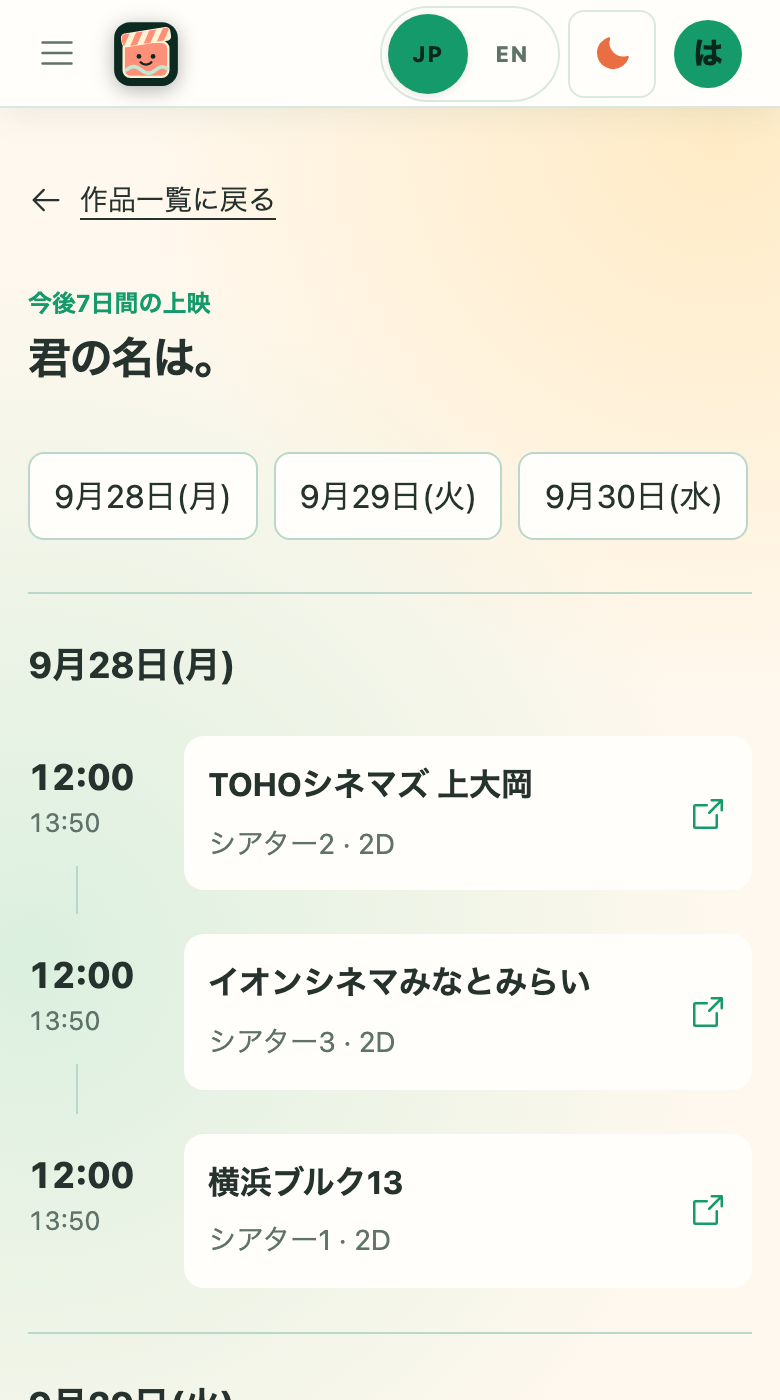
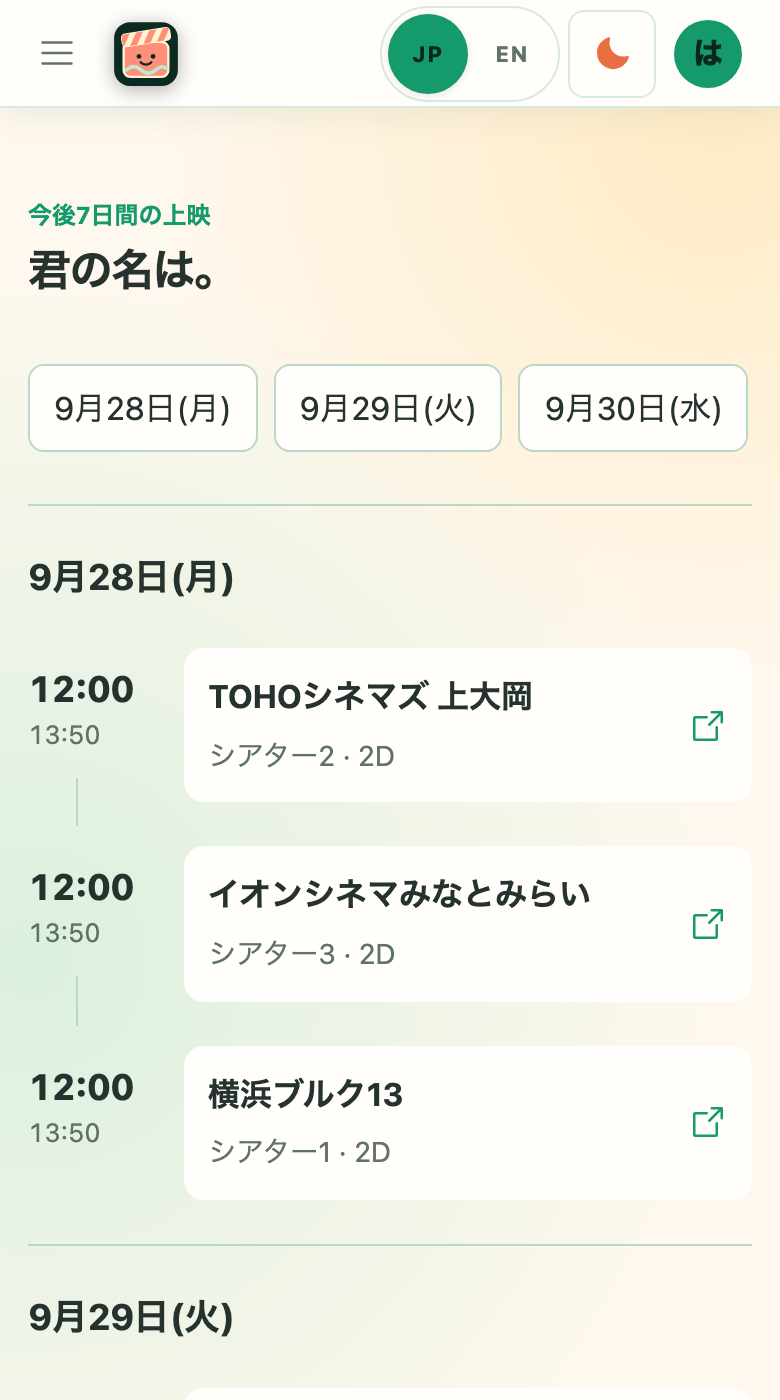
fix: remove redundant page back links (3/3)

diff --git a/src/styles.css b/src/styles.css
@@ -3740,19 +3740,6 @@ html[lang="en"] .brand-wordmark {
   color: var(--muted);
   font-size: 11px;
 }
-.admin-users-page .page-back-link {
-  display: inline-flex;
-  align-items: center;
-  gap: 6px;
-  min-height: 44px;
-  margin-bottom: 16px;
-  color: var(--muted);
-  font-size: 12px;
-  text-decoration: none;
-}
-.admin-users-page .page-back-link:hover {
-  color: var(--text);
-}
 .admin-tabs {
   display: flex;
   gap: 20px;
@@ -3903,7 +3890,6 @@ html[lang="en"] .brand-wordmark {
 .shared-movies img { width: 72px; height: 100px; object-fit: contain; flex: 0 0 auto; border-radius: 6px; }
 .shared-empty { padding-block: 30px; color: var(--muted); line-height: 1.7; }
 .shared-empty a { display: inline-flex; align-items: center; min-height: 44px; }
-.movie-back { display: inline-flex; align-items: center; gap: 8px; min-height: 44px; font-size: 0.875rem; }
 .movie-overview { display: grid; grid-template-columns: minmax(0, 1fr) auto; align-items: start; gap: 16px; padding-block: 20px 28px; }
 .movie-overview-copy { min-width: 0; }
 .movie-overview .page-header { margin: 0; }
@@ -4026,7 +4012,7 @@ html[lang="en"] .brand-wordmark {
 .sharing-view-heading label { display: grid; gap: 8px; }
 .sharing-view-heading select { min-width: 0; width: 100%; min-height: 44px; padding: 10px 12px; background: var(--surface-raised); color: var(--text); border: 1px solid var(--line); border-radius: 10px; font: inherit; }
 .sharing-view-heading h2 { margin: 0; font-size: 1.15rem; overflow-wrap: anywhere; }
-.shared-back-link { display: inline-flex; align-items: center; min-height: 44px; color: var(--accent); margin-bottom: 12px; }
+.shared-manage-link { display: inline-flex; align-items: center; min-height: 44px; color: var(--accent); margin-bottom: 12px; }
 .group-member-list { border-top: 1px solid var(--line); padding-top: 20px; }
 .group-member-list h2 { font-size: 1rem; }
 .group-member-list ul { list-style: none; padding: 0; display: grid; gap: 16px; }
@@ -4156,7 +4142,7 @@ html[lang="en"] .brand-wordmark {
 .member-page-profile { display: flex; align-items: center; gap: 20px; margin-bottom: 28px; }
 .member-page-profile > div { min-width: 0; }
 .member-page-profile p { white-space: pre-wrap; overflow-wrap: anywhere; }
-.member-page-profile a, .member-back-link { display: inline-flex; align-items: center; min-height: 44px; color: var(--accent); }
+.member-page-profile a { display: inline-flex; align-items: center; min-height: 44px; color: var(--accent); }
 .member-activity { min-width: 0; margin-bottom: 28px; padding-bottom: 28px; border-bottom: 1px solid var(--line); }
 .member-activity h2 { font-size: 18px; margin: 0 0 16px; }
 .member-activity-tabs { display: flex; flex-wrap: wrap; gap: 6px; }

diff --git a/src/MoviePage.tsx b/src/MoviePage.tsx
@@ -1,10 +1,9 @@
 import { movieTitle, screeningInfo } from "./i18n";
 import { useEffect, useState } from "react";
 import { addDays, formatJstDate } from "../shared/date";
-import { ArrowLeftIcon, ArrowSquareOutIcon } from "@phosphor-icons/react";
+import { ArrowSquareOutIcon } from "@phosphor-icons/react";
 import { moviePreferenceKey, safeImageUrl } from "../shared/movie";
 import type { ScheduleResponse } from "../shared/types";
-import { hashForAppView } from "./lib";
 import {
   localize as t,
   localizedDate,
@@ -75,10 +74,6 @@ export function MoviePage({
   });
   return (
     <PageShell className="movie-page" busy={loading} labelledBy="movie-title">
-      <a className="movie-back" href={hashForAppView("movies")}>
-        <ArrowLeftIcon size={18} aria-hidden="true" />
-        {t("作品一覧に戻る")}
-      </a>
       <div className="movie-overview">
         <div className="movie-overview-copy">
           <PageHeader

diff --git a/src/SharedPage.tsx b/src/SharedPage.tsx
@@ -88,9 +88,6 @@ export function SharedPage({ manage = false }: { manage?: boolean }) {
           title={t("グループ管理")}
           titleId="groups-title"
         />
-        <a className="shared-back-link" href={hashForAppView("shared")}>
-          {t("共有に戻る")}
-        </a>
         {loading ? (
           <p role="status">{t("読み込み中…")}</p>
         ) : error ? (
@@ -163,7 +160,7 @@ export function SharedPage({ manage = false }: { manage?: boolean }) {
           ) : (
             <p>{t("まずは一緒に映画を楽しむ相手を招待してね！")}</p>
           )}
-          <a className="shared-back-link" href={hashForAppView("groups")}>
+          <a className="shared-manage-link" href={hashForAppView("groups")}>
             {t("グループ管理")}
           </a>
         </div>

diff --git a/src/MemberPage.tsx b/src/MemberPage.tsx
@@ -191,9 +191,6 @@ export function MemberPage({ userId }: { userId: string }) {
         </div>
       )}
       <MemberActivity key={userId} userId={userId} onLoaded={setData} />
-      <a className="member-back-link" href="#shared">
-        {t("共有に戻る")}
-      </a>
     </PageShell>
   );
 }
